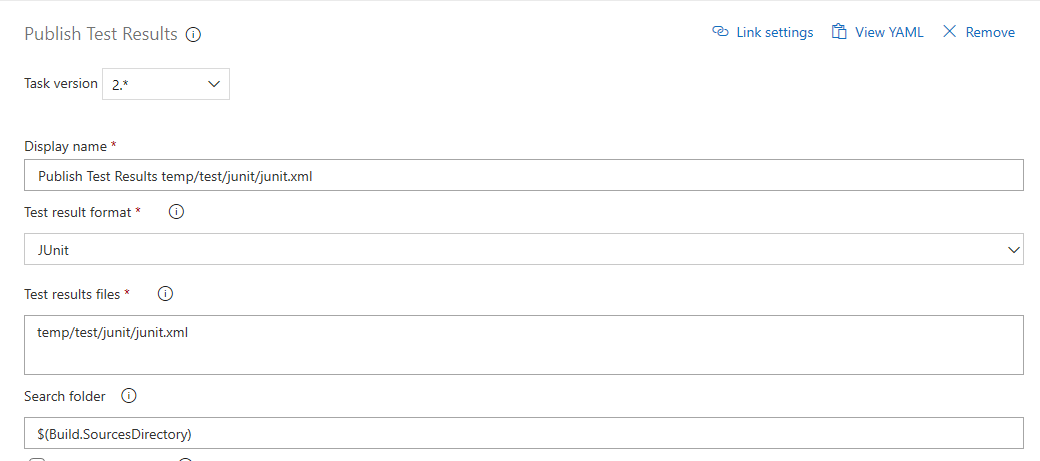
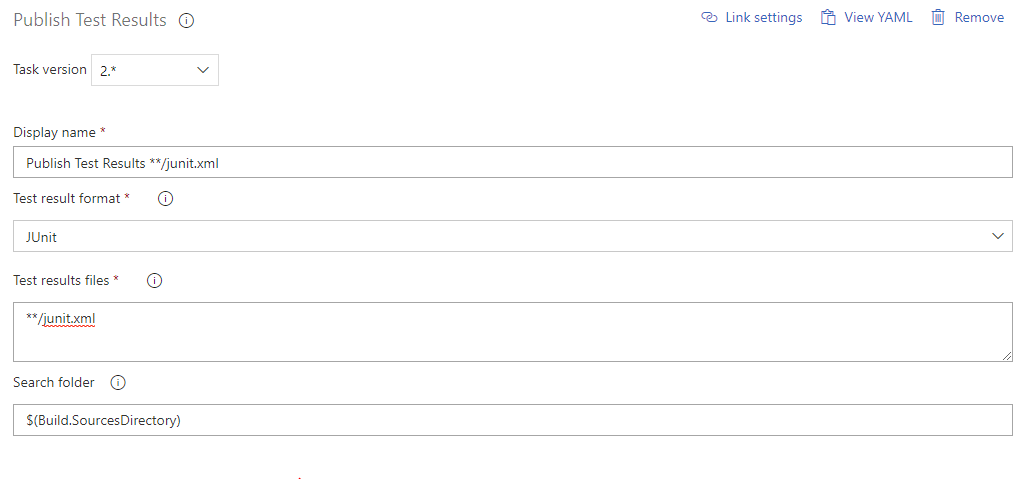
fixes #4217 : cicd updated junit configuration and sample unit test

diff --git a/docs/spfx/toolchain/implement-ci-cd-with-azure-devops.md b/docs/spfx/toolchain/implement-ci-cd-with-azure-devops.md
@@ -60,7 +60,7 @@ The SharePoint Framework does not provide a testing framework by default (since 
 By default SharePoint Framework projects does not include a testing Framework. We will leverage Jest in this sample.
 
 ```shell
-npm i chai@4.X jest jest-junit @voitanos/jest-preset-spfx-react16 -D
+npm i jest jest-junit @voitanos/jest-preset-spfx-react16 -D
 ```
 
 > [!NOTE] 
@@ -81,7 +81,11 @@ You also need to configure Jest, to do so create a file `config/jest.config.json
   ],
   "reporters": [
     "default",
-    "jest-junit"
+    ["jest-junit", {
+      "suiteName": "jest tests",
+      "outputDirectory": "temp/test/junit",
+      "outputName": "junit.xml"
+    }]
   ]
 }
 ```
@@ -90,40 +94,28 @@ You also need to configure your project to leverage jest when typing commands. T
     "test": "./node_modules/.bin/jest --config ./config/jest.config.json",
     "test:watch": "./node_modules/.bin/jest --config ./config/jest.config.json --watchAll"
 ```
-Finally you need to modify the `package.json` to configure the reporter. Reporters are plugins that provide new export formats for test results to test runners. To do so edit `package.json` and add these lines after the `scripts` property.
-
-```JSON
-  "jest-junit": {
-    "output": "temp/test/junit/junit.xml",
-    "usePathForSuiteName": "true"
-  }
-```
 #### Writing a unit test
 To write your first unit test, create a new file `src/webparts/webPartName/tests/webPartName.spec.ts` and add the following content:
 ```TS
-/// <reference types="mocha" />
-import {assert, expect} from 'chai';
+import 'jest'
 
 describe("webPartName", () => {
-  it("should do something", () => {
-    assert.ok(true, 'should be true');
-  });
-  it("should add numbers Sync fluent", () => {
-    const result:number = 1 + 3;
-    expect(result).to.eq(4); // fluent API
+  test("should add numbers Sync fluent", () => {
+    const result = 1 + 3;
+    expect(result).toBe(4); // fluent API
   });
 });
 ```
 > [!NOTE] 
-> You can learn more about writing unit tests using Jest and Chai [here](https://jestjs.io/docs/en/getting-started.html).
+> You can learn more about writing unit tests using Jest [here](https://jestjs.io/docs/en/getting-started.html). You can learn more about testing react applications with Jest and Enzyme [here](https://jestjs.io/docs/en/tutorial-react) (you can ignore the setup part). 
 
 ### Importing test results
-In order to get test results information attached with the build results, you need to import these test results from the test runner into Azure DevOps. To do so, add a new `Publish Test Results` task. Set the `Test results files` field to `temp/test/junit/junit.xml` and the `Search folder` to `$(Build.SourcesDirectory)`.  
+In order to get test results information attached with the build results, you need to import these test results from the test runner into Azure DevOps. To do so, add a new `Publish Test Results` task. Set the `Test results files` field to `**/junit.xml` and the `Search folder` to `$(Build.SourcesDirectory)`.  
 ![importing test results](../../images/azure-devops-spfx-04b.png)
 
 ### Importing code coverage information
 
-In order to get code coverage reported with the build status you need to add a task to import that information. To configure the code coverage information, add the `publish code coverage results` tasks. Make sure you set the tool to `Cobertura`, `Summary files` to `$(Build.SourcesDirectory)/temp/test/cobertura-coverage.xml` and `Report Directory` to `$(Build.SourcesDirectory)/temp/test`.
+In order to get code coverage reported with the build status you need to add a task to import that information. To configure the code coverage information, add the `publish code coverage results` tasks. Make sure you set the tool to `Cobertura`, `Summary files` to `$(Build.SourcesDirectory)/**/*-coverage.xml`.
 
 ![importing coverage information](../../images/azure-devops-spfx-05.png)
 
